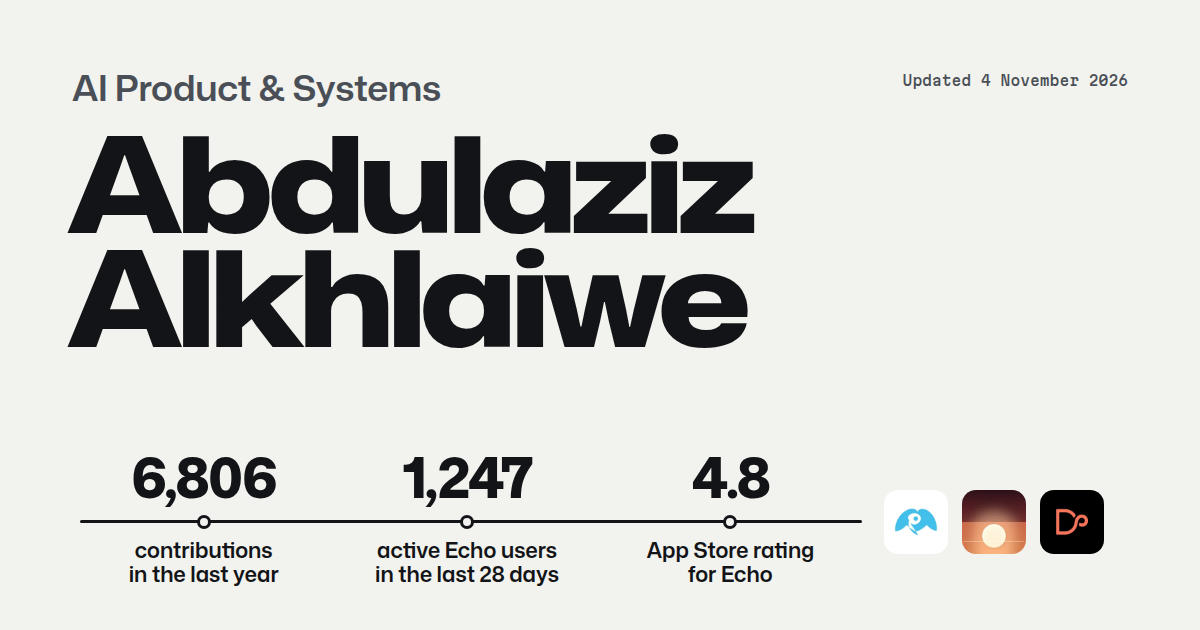
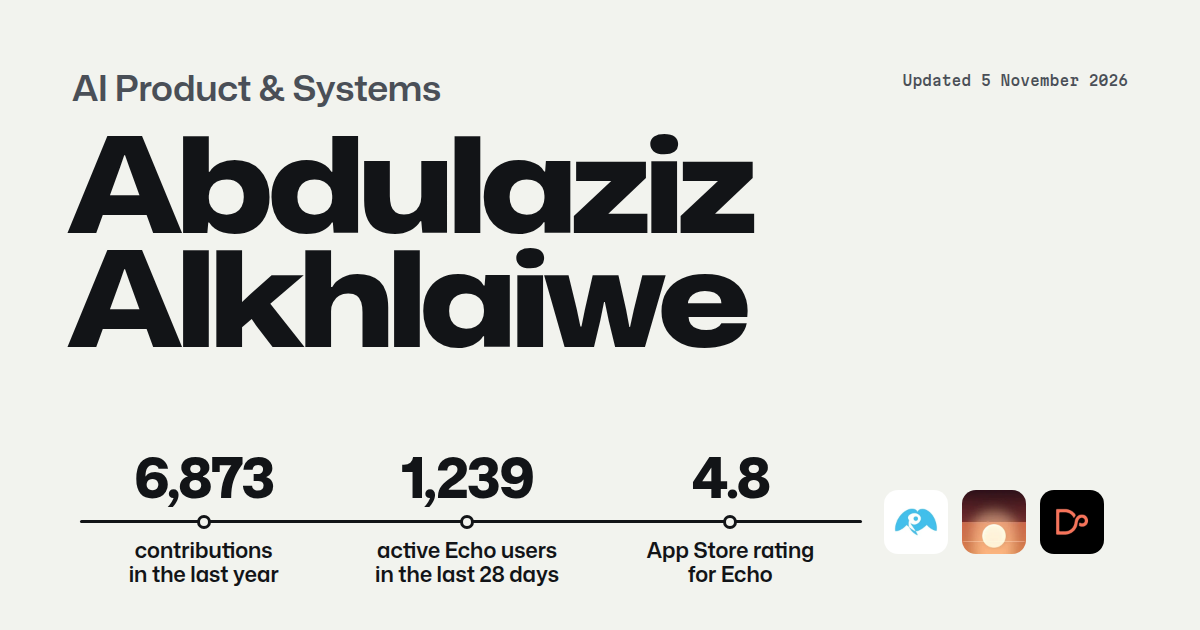
Refresh live data

Changed region(s): [[0.0925, 0.7238, 0.2467, 0.8143], [0.3392, 0.7238, 0.4625, 0.8143], [0.8017, 0.1206, 0.8325, 0.1508]]

diff --git a/index.html b/index.html
@@ -11,13 +11,13 @@
 <meta property="og:title" content="Abdulaziz Alkhlaiwe — AI Product & Systems">
 <meta property="og:description" content="I turn user and business problems into requirements, system workflows, API integrations and shipped products.">
 <meta property="og:url" content="https://justabdulaziz10.github.io/Abdulaziz/">
-<meta property="og:image" content="https://justabdulaziz10.github.io/Abdulaziz/assets/og.png?v=29dff701">
+<meta property="og:image" content="https://justabdulaziz10.github.io/Abdulaziz/assets/og.png?v=b2ff15d9">
 <meta property="og:image:width" content="1200">
 <meta property="og:image:height" content="630">
 <meta property="og:image:alt" content="Abdulaziz Alkhlaiwe, AI Product &amp; Systems">
 <meta property="og:site_name" content="Abdulaziz Alkhlaiwe">
 <meta name="twitter:card" content="summary_large_image">
-<meta name="twitter:image" content="https://justabdulaziz10.github.io/Abdulaziz/assets/og.png?v=29dff701">
+<meta name="twitter:image" content="https://justabdulaziz10.github.io/Abdulaziz/assets/og.png?v=b2ff15d9">
 <link rel="icon" href="assets/favicon.svg" type="image/svg+xml">
 <link rel="apple-touch-icon" href="assets/apple-touch-icon.png">
 <!-- no font or module preloads: on a slow phone they take bandwidth from the stylesheets and hold back the first paint
@@ -72,7 +72,7 @@
     <div class="wrap hero__inner">
       <p class="hero__role">AI Product &amp; Systems</p>
       <ul class="hero__proof" aria-label="Highlights">
-        <li><a href="#echo"><img src="assets/img/icon-echo.webp" width="192" height="192" alt=""><strong data-live="revenuecat.echo.activeUsers">1,247</strong><span>active Echo users in the last 28 days</span></a></li>
+        <li><a href="#echo"><img src="assets/img/icon-echo.webp" width="192" height="192" alt=""><strong data-live="revenuecat.echo.activeUsers">1,239</strong><span>active Echo users in the last 28 days</span></a></li>
         <li><a href="#mara"><img src="assets/img/icon-mara.webp" width="192" height="192" alt=""><strong>Misk Launchpad</strong><span>Cohort 9, with Mara</span></a></li>
         <li><a href="#rassah"><img src="assets/img/icon-rassah.svg" width="64" height="64" alt=""><strong>Two days</strong><span>to build Rassah, end to end</span></a></li>
       </ul>
@@ -103,13 +103,13 @@
   <!-- THE YEAR -->
   <section class="year" id="year" data-world="paper" aria-labelledby="year-title">
     <div class="wrap">
-      <h2 class="year__title" id="year-title"><span class="num" data-count="6806" data-live="github.total">6,806</span> contributions in the last year</h2>
-      <p class="year__sub">Every point is a week on GitHub, from <span data-live="github.from" data-fmt="date">2 November 2025</span> to <span data-live="github.to" data-fmt="date">4 November 2026</span>. <span data-live="github.activeDays">302</span> active days, and a run of <span data-live="github.streak">86</span> days in a row that is still going.</p>
+      <h2 class="year__title" id="year-title"><span class="num" data-count="6873" data-live="github.total">6,873</span> contributions in the last year</h2>
+      <p class="year__sub">Every point is a week on GitHub, from <span data-live="github.from" data-fmt="date">2 November 2025</span> to <span data-live="github.to" data-fmt="date">5 November 2026</span>. <span data-live="github.activeDays">303</span> active days, and a run of <span data-live="github.streak">87</span> days in a row that is still going.</p>
       <p class="year__week" data-week hidden><span class="year__week-label">This week:</span> <span class="year__week-items" data-week-items></span></p>
       <div class="scene-slot" data-scene="year"></div>
       <div class="lab">
         <div class="lab__text">
-          <h3 class="lab__count"><span class="num" data-live="gitlab.pushes">1,723</span> pushes to GitLab</h3>
+          <h3 class="lab__count"><span class="num" data-live="gitlab.pushes">1,726</span> pushes to GitLab</h3>
           <p class="lab__sub">Since <span data-live="gitlab.first" data-fmt="date">23 August 2026</span>, on <span data-live="gitlab.activeDays">72</span> days. Mara’s builds run on GitLab, so these stay out of the GitHub count above.</p>
         </div>
         <div class="lab__cal" data-lab-cal></div>
@@ -155,7 +155,7 @@
           <p class="project__kind">A 0-to-1, privacy-first photo-memory app for iPhone.</p>
           <dl class="project__facts">
             <div><dt>What I did</dt><dd>Product development, UX, monetization, analytics and release management.</dd></div>
-            <div><dt>Outcome</dt><dd><strong data-live="revenuecat.echo.activeUsers">1,247</strong> active users in the last 28 days. Rated <strong data-live="apps.echo.rating">4.8</strong> on the App Store, in <strong data-live="apps.echo.languages">37</strong> languages, now on version <span data-live="apps.echo.version">1.46</span>.</dd></div>
+            <div><dt>Outcome</dt><dd><strong data-live="revenuecat.echo.activeUsers">1,239</strong> active users in the last 28 days. Rated <strong data-live="apps.echo.rating">4.8</strong> on the App Store, in <strong data-live="apps.echo.languages">37</strong> languages, now on version <span data-live="apps.echo.version">1.46</span>.</dd></div>
           </dl>
           <div class="pm" data-pm hidden>
             <div class="pm__inner">
@@ -163,7 +163,7 @@
                 <div><dt>Requirement</dt><dd>People with years of photos rarely look back at them. Surface one photo a day from their own library, chosen on the device. Mara's servers never receive the photos.</dd></div>
                 <div><dt>Flow</dt><dd><ol class="pm__flow"><li>Open Today</li><li>See a photo from your camera roll</li><li>Keep it</li><li>Add words or a voice note, if you want</li><li>Save it to the Wall</li><li>The saved photo stays off Today, even after relaunch</li></ol></dd></div>
                 <div><dt>Decision</dt><dd>Start from photos people already have.<span class="pm__why">Over a blank journal page or an upload service. No account, and no copy on Mara's servers. Saved memories sync only through the person's own iCloud.</span></dd></div>
-                <div><dt>Result</dt><dd><strong data-live="revenuecat.echo.activeUsers">1,247</strong> active users in the last 28 days. In a unit test on a simulated library of over 2,000 photos, 40 picks in a row had no two from within three days.</dd></div>
+                <div><dt>Result</dt><dd><strong data-live="revenuecat.echo.activeUsers">1,239</strong> active users in the last 28 days. In a unit test on a simulated library of over 2,000 photos, 40 picks in a row had no two from within three days.</dd></div>
               </dl>
             </div>
           </div>
